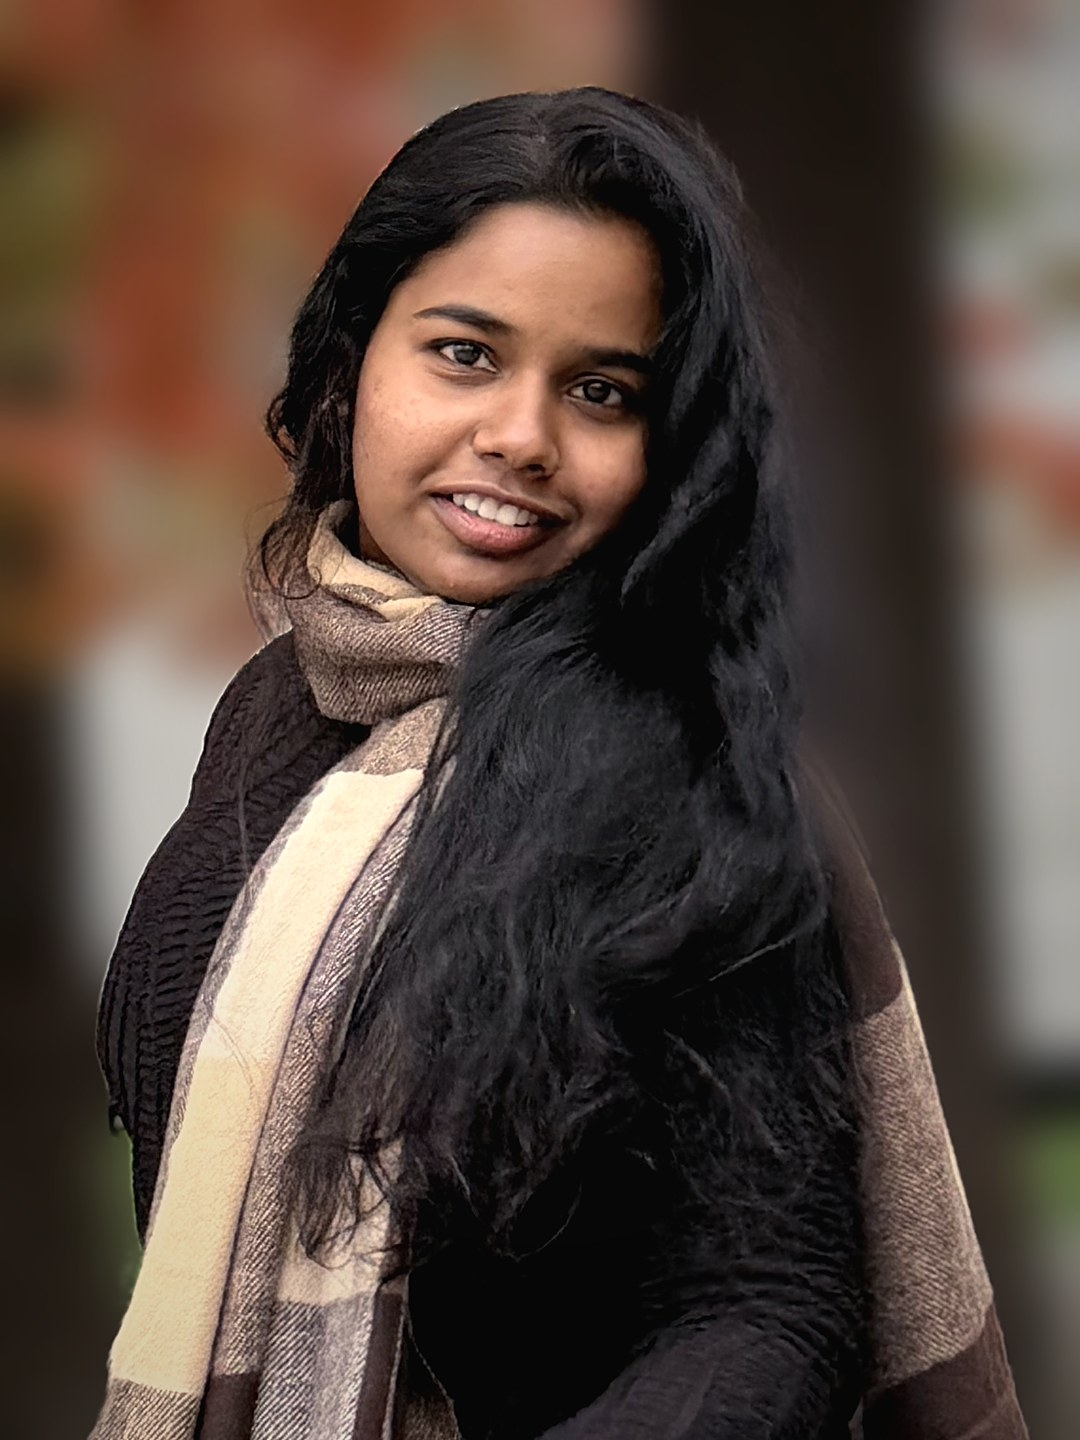
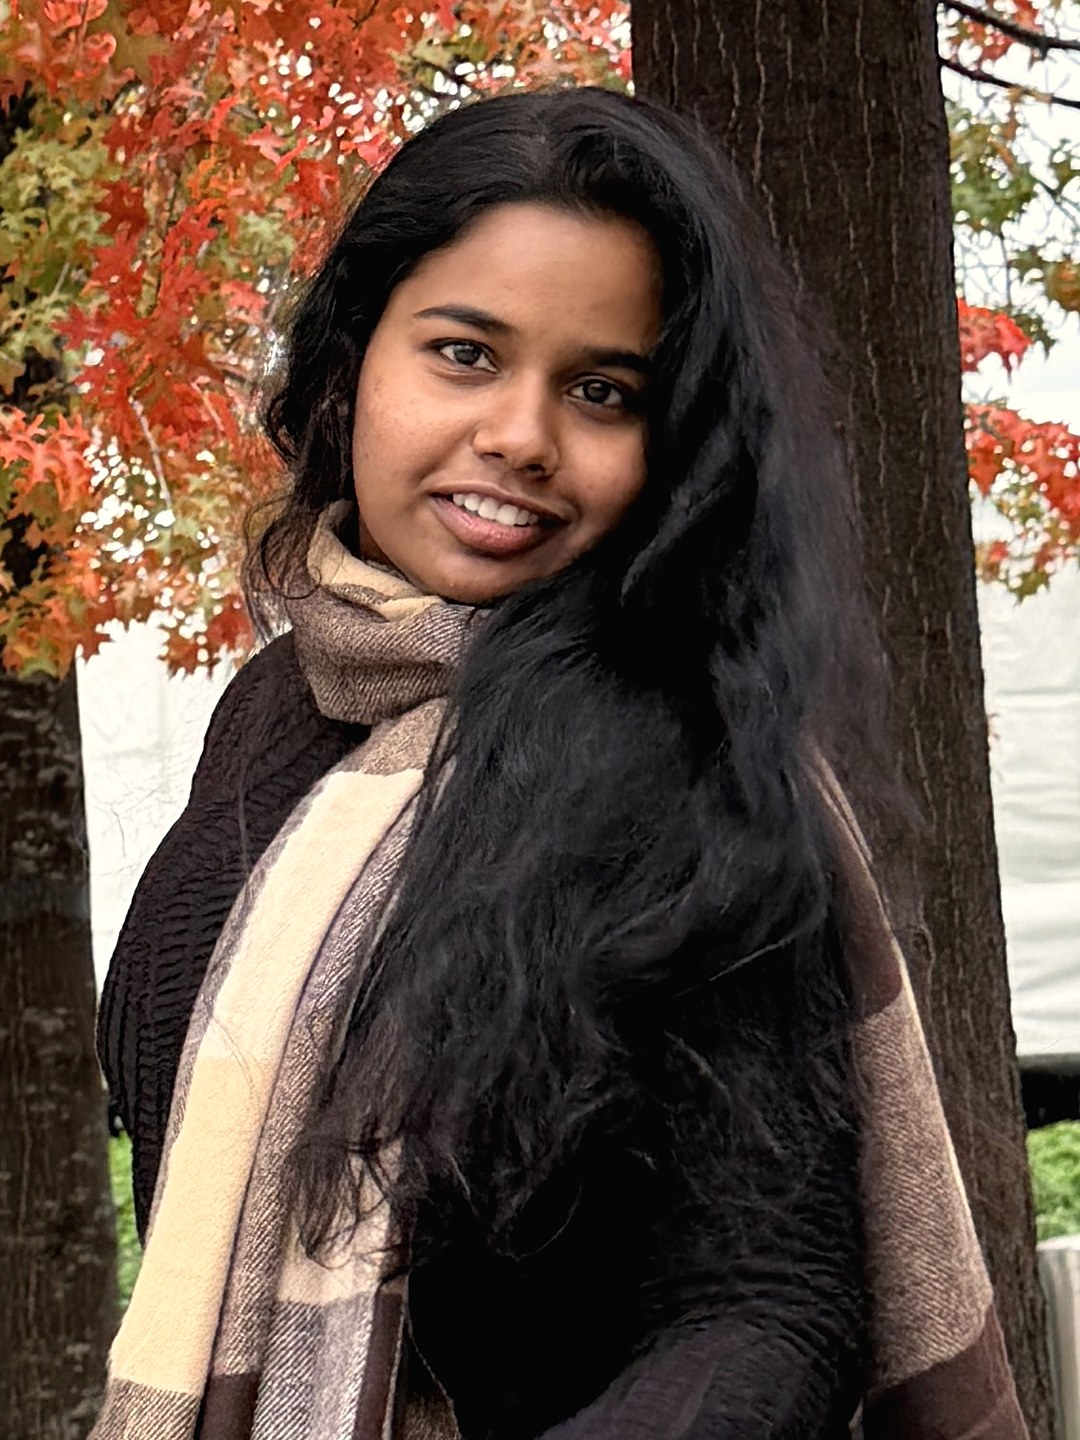
Replace blurred portrait with sharp photo and a light warm grade

diff --git a/src/data.js b/src/data.js
@@ -12,7 +12,7 @@ export const profile = {
   linkedin: 'https://www.linkedin.com/in/chandanapriyak',
   github: 'https://github.com/k-chandanapriya',
   cv: 'Chandana-Priya-Kummarigunta-CV.pdf',
-  photo: 'chandana.jpg?v=portrait',
+  photo: 'chandana.jpg?v=arch',
   intro:
     'I turn cutting-edge AI into products people can trust. I fine-tune large language models, build RAG systems that reach 95.7% Recall@5, and engineer real-time ML pipelines that score transactions in under 10 ms. Fast, accurate and ready for the real world.',
   about: [
